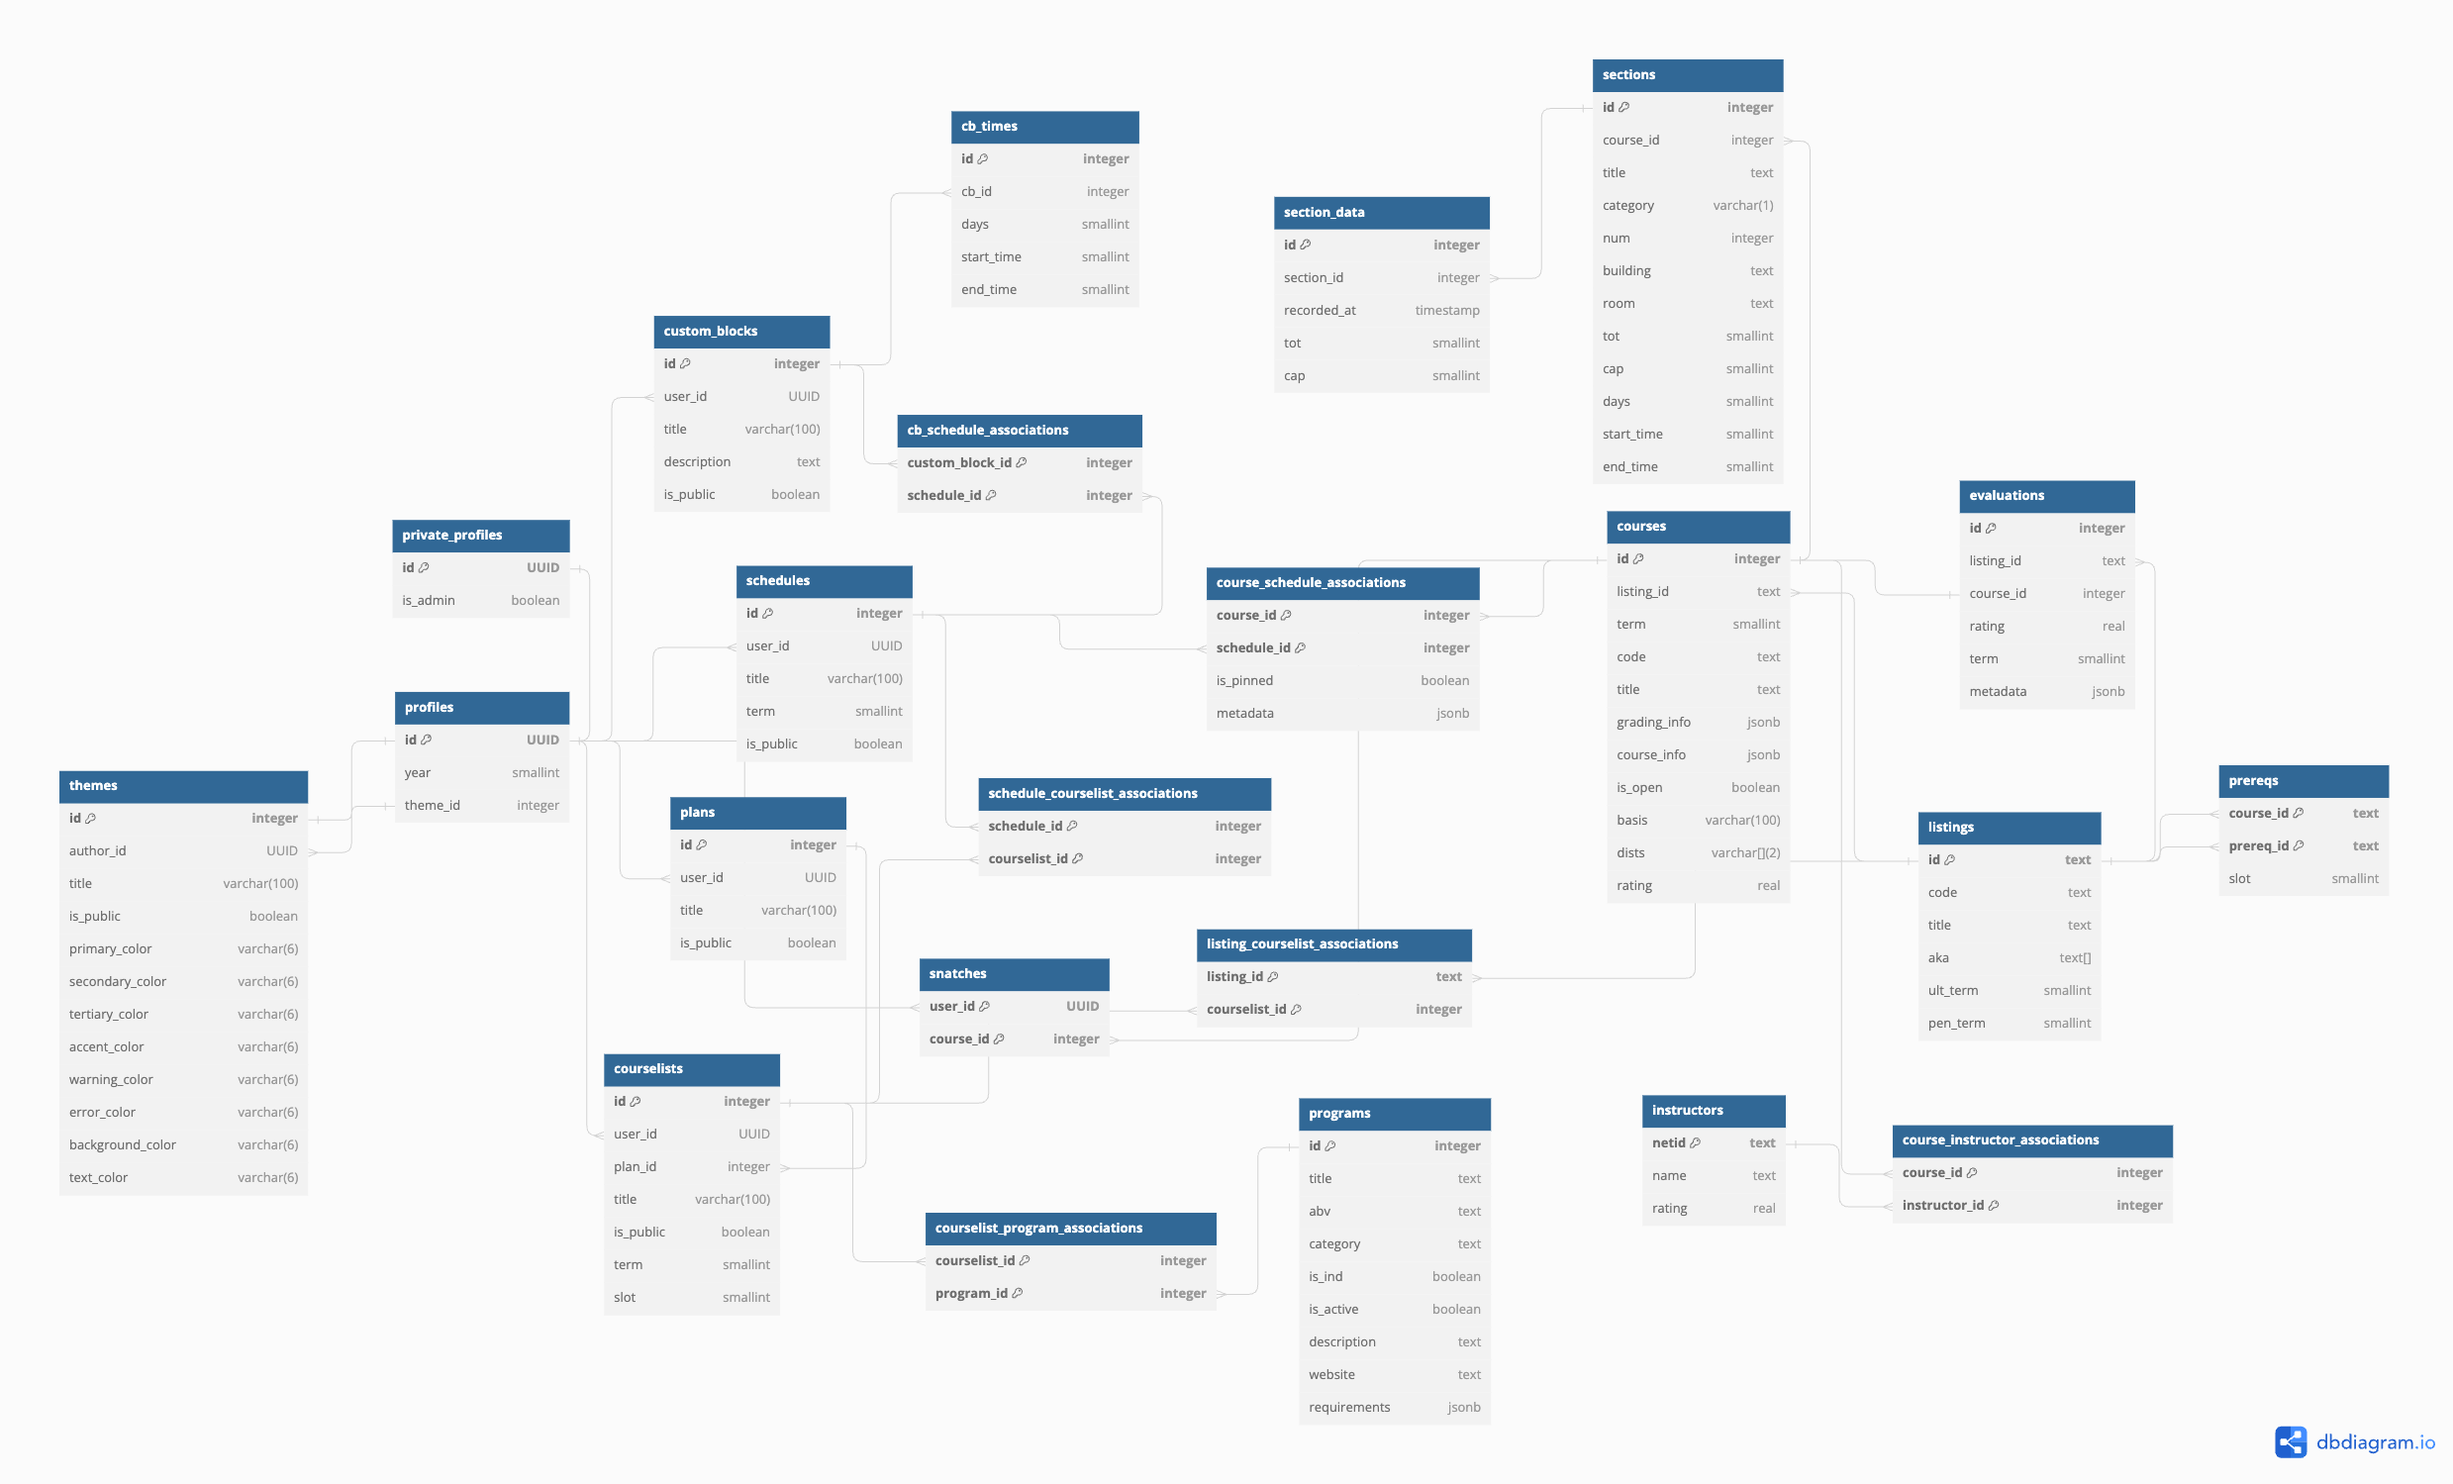
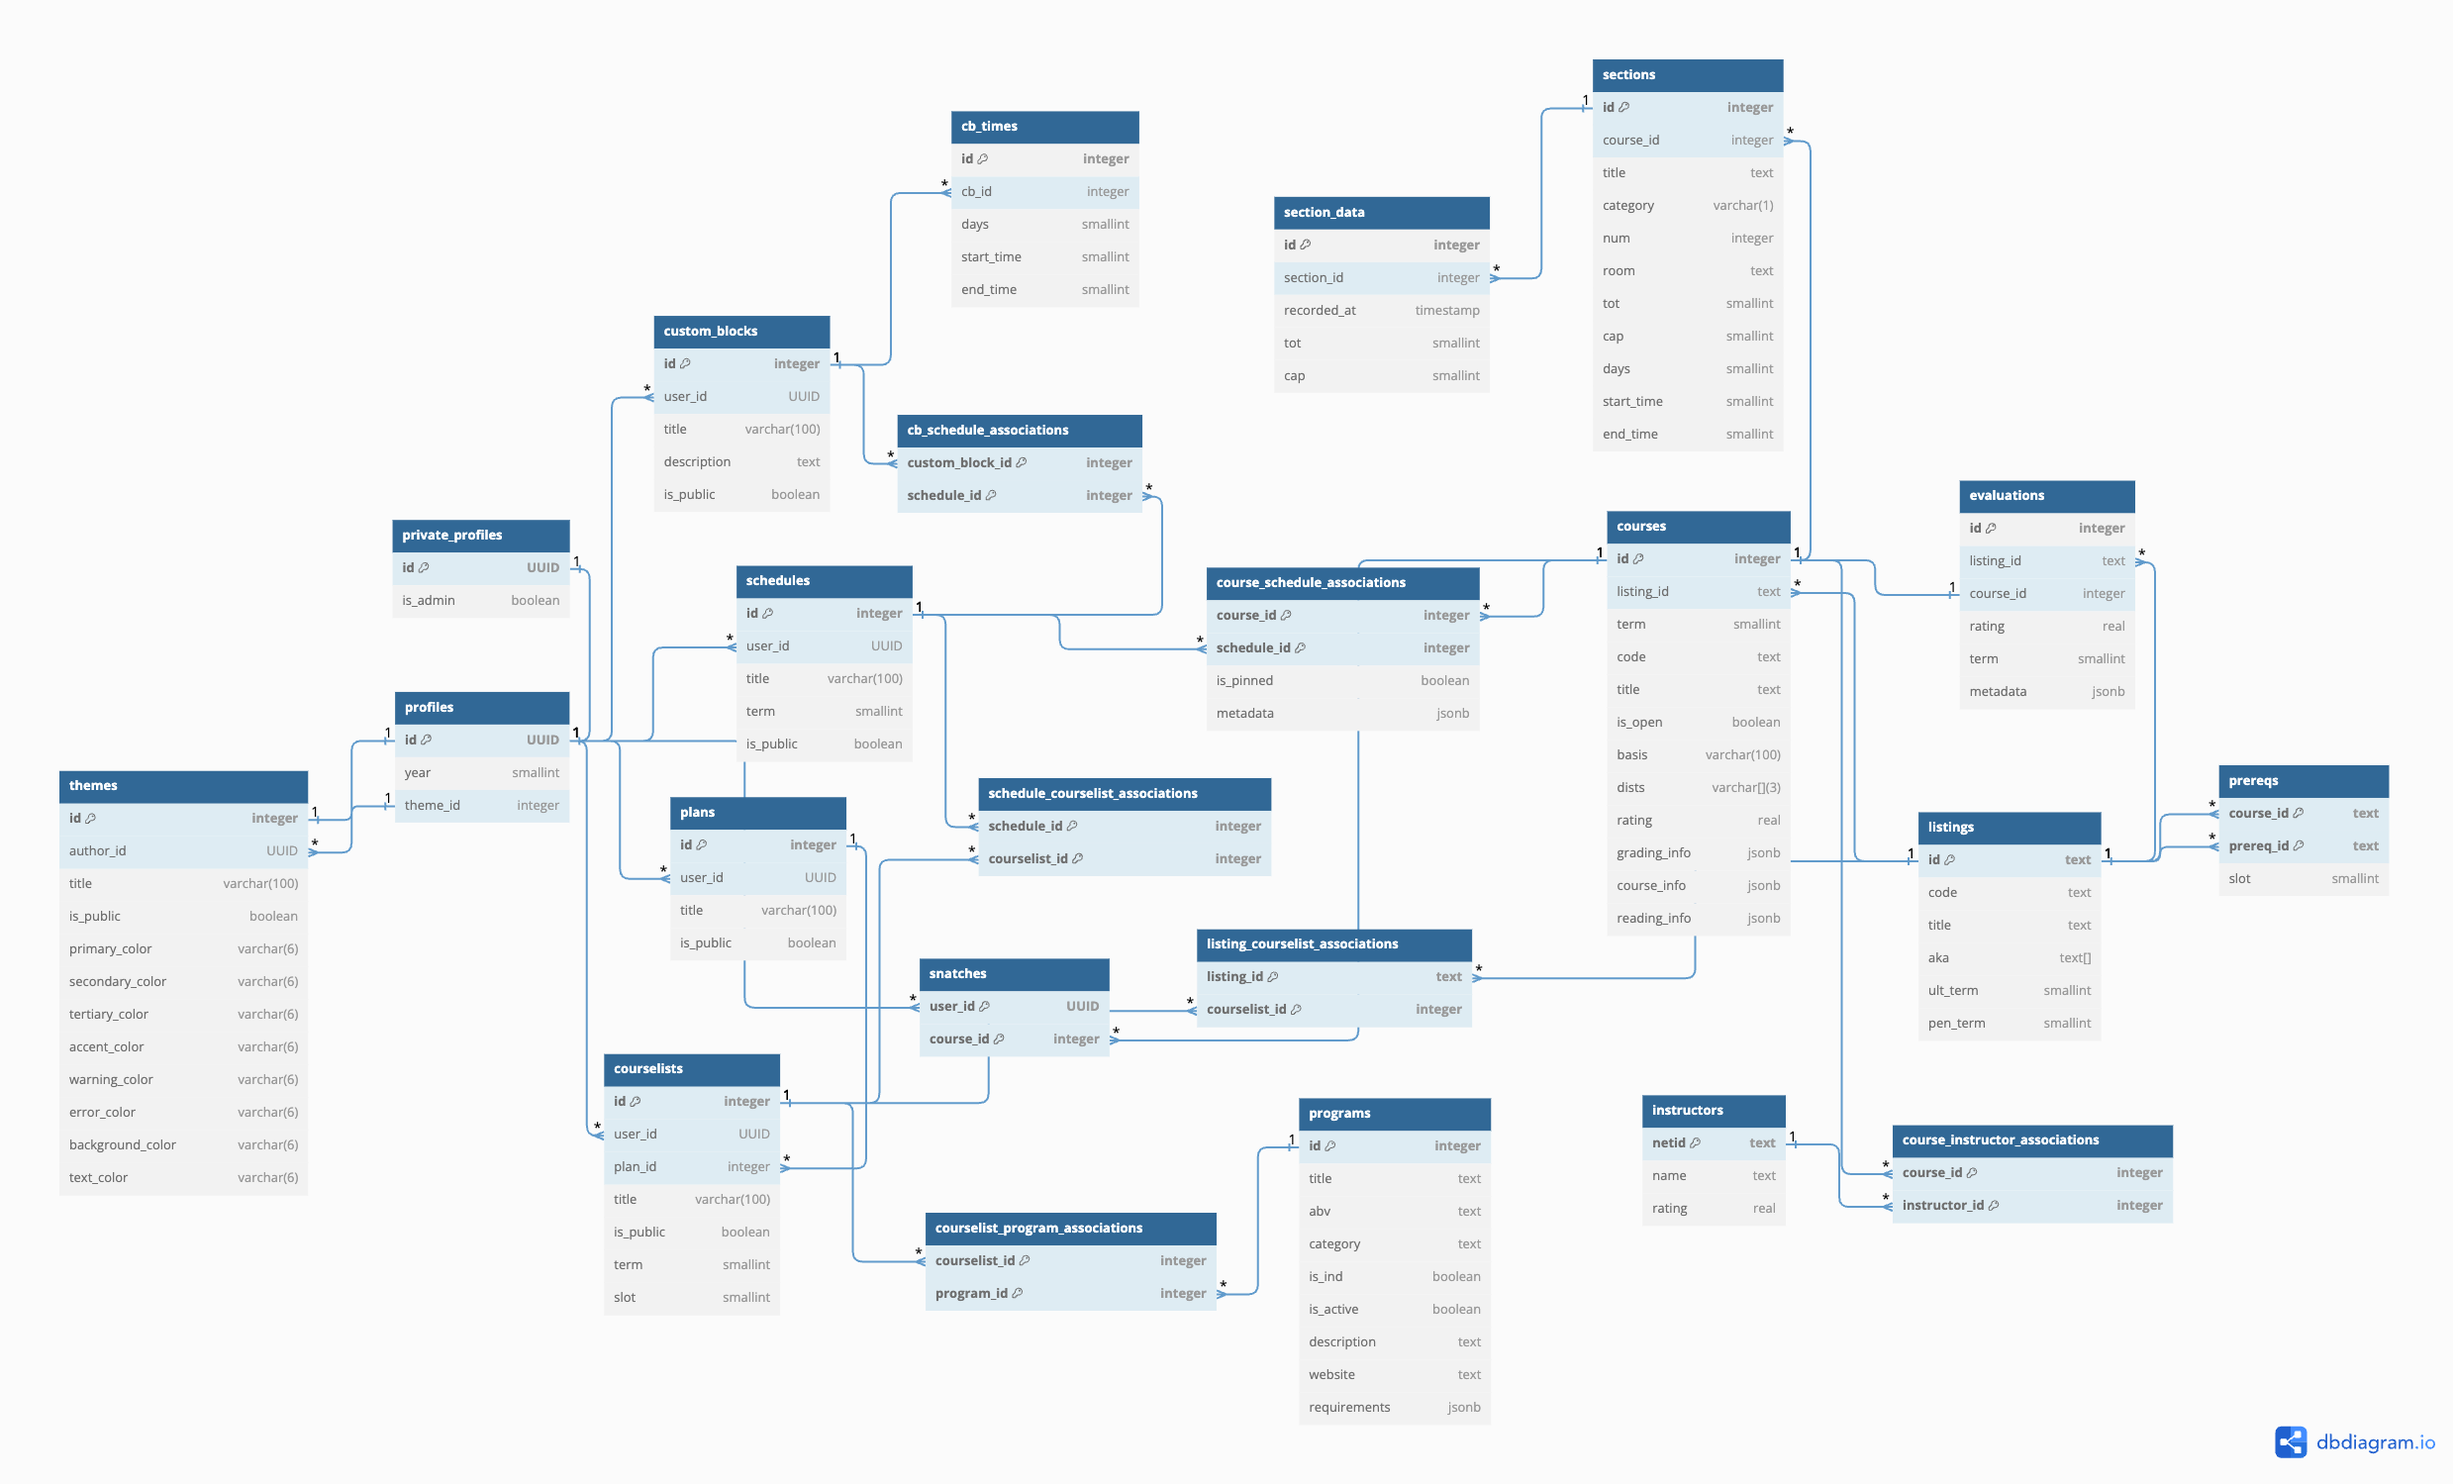
Add readings to course table

diff --git a/src/lib/scripts/scraper/courses.ts b/src/lib/scripts/scraper/courses.ts
@@ -1,14 +1,16 @@
 import type { SupabaseClient } from "@supabase/supabase-js";
 import { getCourseIds } from "$lib/scripts/scraper/reg";
-import { REGISTRAR_AUTH_BEARER, COURSE_URL } from "$lib/constants";
+import { REGISTRAR_AUTH_BEARER, COURSE_URL, GENERIC_GRADING_INFO } from "$lib/constants";
 import type { CourseInsert, InstructorInsert } from "$lib/types/dbTypes";
 import { daysToValue, timeToValue } from "../convert";
-import type { GradingInfo, RegCourse, RegSeatReservation, RegSection } from "$lib/types/regTypes";
+import type { RegGradingInfo, RegCourse, RegSeatReservation, RegSection } from "$lib/types/regTypes";
 
 const SUCCESS_MESSAGE = "Successfully began populating courses for term: ";
+const PARALLEL_REQUESTS = 10; // Number of parallel requests to send
 const RATE = 0; // Number of milliseconds between requests
 
 // TODO - Calculate is_open value
+// TODO - Output data to console
 
 /**
  * Pushes all courses for a given term to the database
@@ -25,6 +27,7 @@ const populateCourses = async (supabase: SupabaseClient, term: number) => {
 
     const processNextCourse = (index: number) => {
         if (index >= ids.length) return;
+        console.log("Sending request: " + index);
 
         // Fetch course data for id
         fetch(
@@ -47,9 +50,6 @@ const populateCourses = async (supabase: SupabaseClient, term: number) => {
 
             let data: RegCourse = raw.course_details.course_detail[0];
 
-            console.log(data.crosslistings);
-            console.log(data.course_instructors.course_instructor);
-
             // Format course data
             let course: CourseInsert = {
                 listing_id: data.course_id,
@@ -60,6 +60,7 @@ const populateCourses = async (supabase: SupabaseClient, term: number) => {
                     data.long_title + ": " + data.topic_title,
                 grading_info: parseGradingInfo(data),
                 course_info: parseCourseInfo(data),
+                reading_info: parseReadingInfo(data),
                 is_open: true,
                 basis: data.grading_basis,
                 dists: data.distribution_area_short ?  
@@ -101,8 +102,7 @@ const populateCourses = async (supabase: SupabaseClient, term: number) => {
                         );
 
                         setTimeout(() => {
-                            console.log("Sent request: " + index);
-                            processNextCourse(index + 1);
+                            processNextCourse(index + PARALLEL_REQUESTS);
                         }, RATE);
                     });
                 } else {
@@ -127,8 +127,7 @@ const populateCourses = async (supabase: SupabaseClient, term: number) => {
                         );
 
                         setTimeout(() => {
-                            console.log("Sent request: " + index);
-                            processNextCourse(index + 1);
+                            processNextCourse(index + PARALLEL_REQUESTS);
                         }, RATE);
                     });
                 }
@@ -136,8 +135,11 @@ const populateCourses = async (supabase: SupabaseClient, term: number) => {
         }); 
     }
 
-    processNextCourse(0);
+    // Begin sending requests
+    for (let i = 0; i < PARALLEL_REQUESTS; i++) processNextCourse(i);
     
+    // Confirm requests sent
+    console.log("Began all initial requests");
     return {
         message: SUCCESS_MESSAGE + term,
         ids
@@ -148,30 +150,9 @@ const populateCourses = async (supabase: SupabaseClient, term: number) => {
 // Parse grading info from registrar data
 const parseGradingInfo = (data: RegCourse) => {
     let gradingInfo: Record<string, string> = {};
-
-    const genericGradingInfo: GradingInfo = {
-        grading_design_projects: "Design Projects",
-        grading_final_exam: "Final Exam",
-        grading_home_final_exam: "Home Final Exam",
-        grading_home_mid_exam: "Home Mid Exam",
-        grading_lab_reports: "Lab Reports",
-        grading_mid_exam: "Mid Exam",
-        grading_oral_pres: "Oral Presentation",
-        grading_other: "Other",
-        grading_other_exam: "Other Exam",
-        grading_paper_final_exam: "Paper Final Exam",
-        grading_paper_mid_exam: "Paper Mid Exam",
-        grading_papers: "Papers",
-        grading_precept_part: "Precept Participation",
-        grading_prob_sets: "Problem Sets",
-        grading_prog_assign: "Programming Assignments",
-        grading_quizzes: "Quizzes",
-        grading_term_paper: "Term Paper",
-    };
-
-    for (let key in genericGradingInfo) 
+    for (let key in GENERIC_GRADING_INFO) 
         if (data[key] && data[key] !== "0")
-            gradingInfo[genericGradingInfo[key as keyof GradingInfo]] 
+            gradingInfo[GENERIC_GRADING_INFO[key as keyof RegGradingInfo]] 
         = data[key];
     
     return gradingInfo;
@@ -179,7 +160,7 @@ const parseGradingInfo = (data: RegCourse) => {
 
 // Parse course info from registrar data
 const parseCourseInfo = (data: RegCourse) => {
-    let courseInfo: Record<string, string | RegSeatReservation> = {};
+    let courseInfo: Record<string, string | RegSeatReservation[]> = {};
 
     if (data.description)
         courseInfo["Description"] = data.description;
@@ -191,10 +172,41 @@ const parseCourseInfo = (data: RegCourse) => {
         courseInfo["Requirements"] = data.other_requirements;
     if (data.other_restrictions)
         courseInfo["Restrictions"] = data.other_restrictions;
-    if (Object.keys(data.seat_reservations).length === 0)
-        courseInfo["Reservations"] = data.seat_reservations;
+    if (Object.keys(data.seat_reservations).length !== 0)
+        courseInfo["Reservations"] = data.seat_reservations.seat_reservation;
 
     return courseInfo;
+}
+
+// Parse course reading info from registrar data
+const parseReadingInfo = (data: RegCourse) => {
+    const MAX_READINGS = 6;
+
+    let readingInfo: Record<string, string> = {};
+    let flag = false;
+
+    for (let i = 1; i <= MAX_READINGS; i++) {
+        if (data["reading_list_title_" + i] !== " ") {
+            flag = true;
+            readingInfo["T" + i] = data["reading_list_title_" + i];
+        }
+
+        if (data["reading_list_author_" + i] !== " ") {
+            flag = true;
+            readingInfo["A" + i] = data["reading_list_author_" + i];
+        }
+    }
+
+    return flag ? readingInfo : null;
+}
+
+// Parse building and room from registrar data and handle edge case
+const parseBuilding = (section: RegSection) => {
+    if (!section.building_name 
+        || section.building_name === "No Room Required")
+        return null;
+    else
+        return section.building_name + " " + section.room 
 }
 
 /**
@@ -265,9 +277,7 @@ course_id: number, sections: RegSection[]) => {
                         title: section.section,
                         category: section.section[0],
                         num: section.class_number,
-                        building: section.building ? 
-                            section.building + " " + section.room :
-                            null,
+                        room: parseBuilding(section),
                         tot: section.enrl_tot,
                         cap: section.enrl_cap,
                         days: daysToValue(section),
@@ -291,9 +301,7 @@ course_id: number, sections: RegSection[]) => {
                 } else {
                     supabase.from("sections")
                         .update({
-                            building: section.building ?
-                                section.building + " " + section.room :
-                                null,
+                            room: parseBuilding(section),
                             tot: section.enrl_tot,
                             cap: section.enrl_cap,
                         })

diff --git a/src/lib/types/regTypes.ts b/src/lib/types/regTypes.ts
@@ -21,7 +21,22 @@ type RegSection = WeekDays & {
     [key: string]: any,
 };
 
-type GradingInfo = {
+type RegReadingInfo = {
+    reading_list_title_1: string,
+    reading_list_author_1: string,
+    reading_list_title_2: string,
+    reading_list_author_2: string,
+    reading_list_title_3: string,
+    reading_list_author_3: string,
+    reading_list_title_4: string,
+    reading_list_author_4: string,
+    reading_list_title_5: string,
+    reading_list_author_5: string,
+    reading_list_title_6: string,
+    reading_list_author_6: string,
+}
+
+type RegGradingInfo = {
     grading_design_projects: string,
     grading_final_exam: string,
     grading_home_final_exam: string,
@@ -38,18 +53,18 @@ type GradingInfo = {
     grading_prob_sets: string,
     grading_prog_assign: string,
     grading_quizzes: string,
-    grading_term_paper: string,
+    grading_term_papers: string,
+    pu_projects: string,
+    pu_pres_final_exam: string,
 }
 
 type RegSeatReservation = {
-    seat_reservation: {
-        class_section: string,
-        description: string,
-        enrl_cap: string,
-    }[],
+    class_section: string,
+    description: string,
+    enrl_cap: string,
 }
 
-type RegCourse = GradingInfo & {
+type RegCourse = RegGradingInfo & RegReadingInfo & {
     catnum: string,
     course_equivalents: any,
     course_id: string,
@@ -66,11 +81,13 @@ type RegCourse = GradingInfo & {
     other_requirements: string,
     other_restrictions: string,
     reading_writing_assignment: string,
-    seat_reservations: RegSeatReservation,
+    seat_reservations: {
+        seat_reservation: RegSeatReservation[],
+    },
     subject: string,
     term: string,
     topic_title: string,
     [key: string]: any,
 }
 
-export type { WeekDays, RegSection, GradingInfo, RegSeatReservation, RegCourse }
+export type { WeekDays, RegSection, RegReadingInfo, RegGradingInfo, RegSeatReservation, RegCourse }

diff --git a/src/lib/constants.ts b/src/lib/constants.ts
@@ -1,3 +1,5 @@
+import type { RegGradingInfo } from "./types/regTypes";
+
 // Database
 const CATEGORIES = ["ab", "bse", "certificate", "minor"];
 
@@ -25,6 +27,28 @@ const TERM_MAP: Record<string, number> = {
 const CURRENT_TERM_NAME = "FALL_2023";
 const CURRENT_TERM_ID = 1242;
 
+const GENERIC_GRADING_INFO: RegGradingInfo = {
+    grading_design_projects: "Design Project", 
+    grading_final_exam: "Final Scheduled Exam",
+    grading_home_final_exam: "Take Home Final Exam",
+    grading_home_mid_exam: "Take Home Midterm Exam", 
+    grading_lab_reports: "Lab Reports",
+    grading_mid_exam: "Midterm Exam",
+    grading_oral_pres: "Presentation or Performance",
+    grading_other: "Other", 
+    grading_other_exam: "Exam(s) Given During Term",
+    grading_paper_final_exam: "Final Paper or Project",
+    grading_paper_mid_exam: "Midterm Paper or Project", 
+    grading_papers: "Papers/Writing Assignments",
+    grading_precept_part: "Participation",
+    grading_prob_sets: "Problem Sets",
+    grading_prog_assign: "Programming Assignments",
+    grading_quizzes: "Quizzes", 
+    grading_term_papers: "Term Paper(s)", 
+    pu_pres_final_exam: "Final presentation or Performance",
+    pu_projects: "Project(s)",
+};
+
 export { 
     CATEGORIES, 
     REGISTRAR_AUTH_BEARER, 
@@ -33,5 +57,6 @@ export {
     EVALUATION_URL,
     TERM_MAP,
     CURRENT_TERM_NAME,
-    CURRENT_TERM_ID
+    CURRENT_TERM_ID,
+    GENERIC_GRADING_INFO
 };

diff --git a/src/lib/types/dbTypes.ts b/src/lib/types/dbTypes.ts
@@ -17,7 +17,8 @@ type CourseInsert = {
     code: string,
     title: string,
     grading_info: Record<string, string>,
-    course_info: Record<string, string | RegSeatReservation>,
+    course_info: Record<string, string | RegSeatReservation[]>,
+    reading_info: Record<string, string> | null,
     is_open: boolean,
     basis: string,
     dists: string[] | null,
